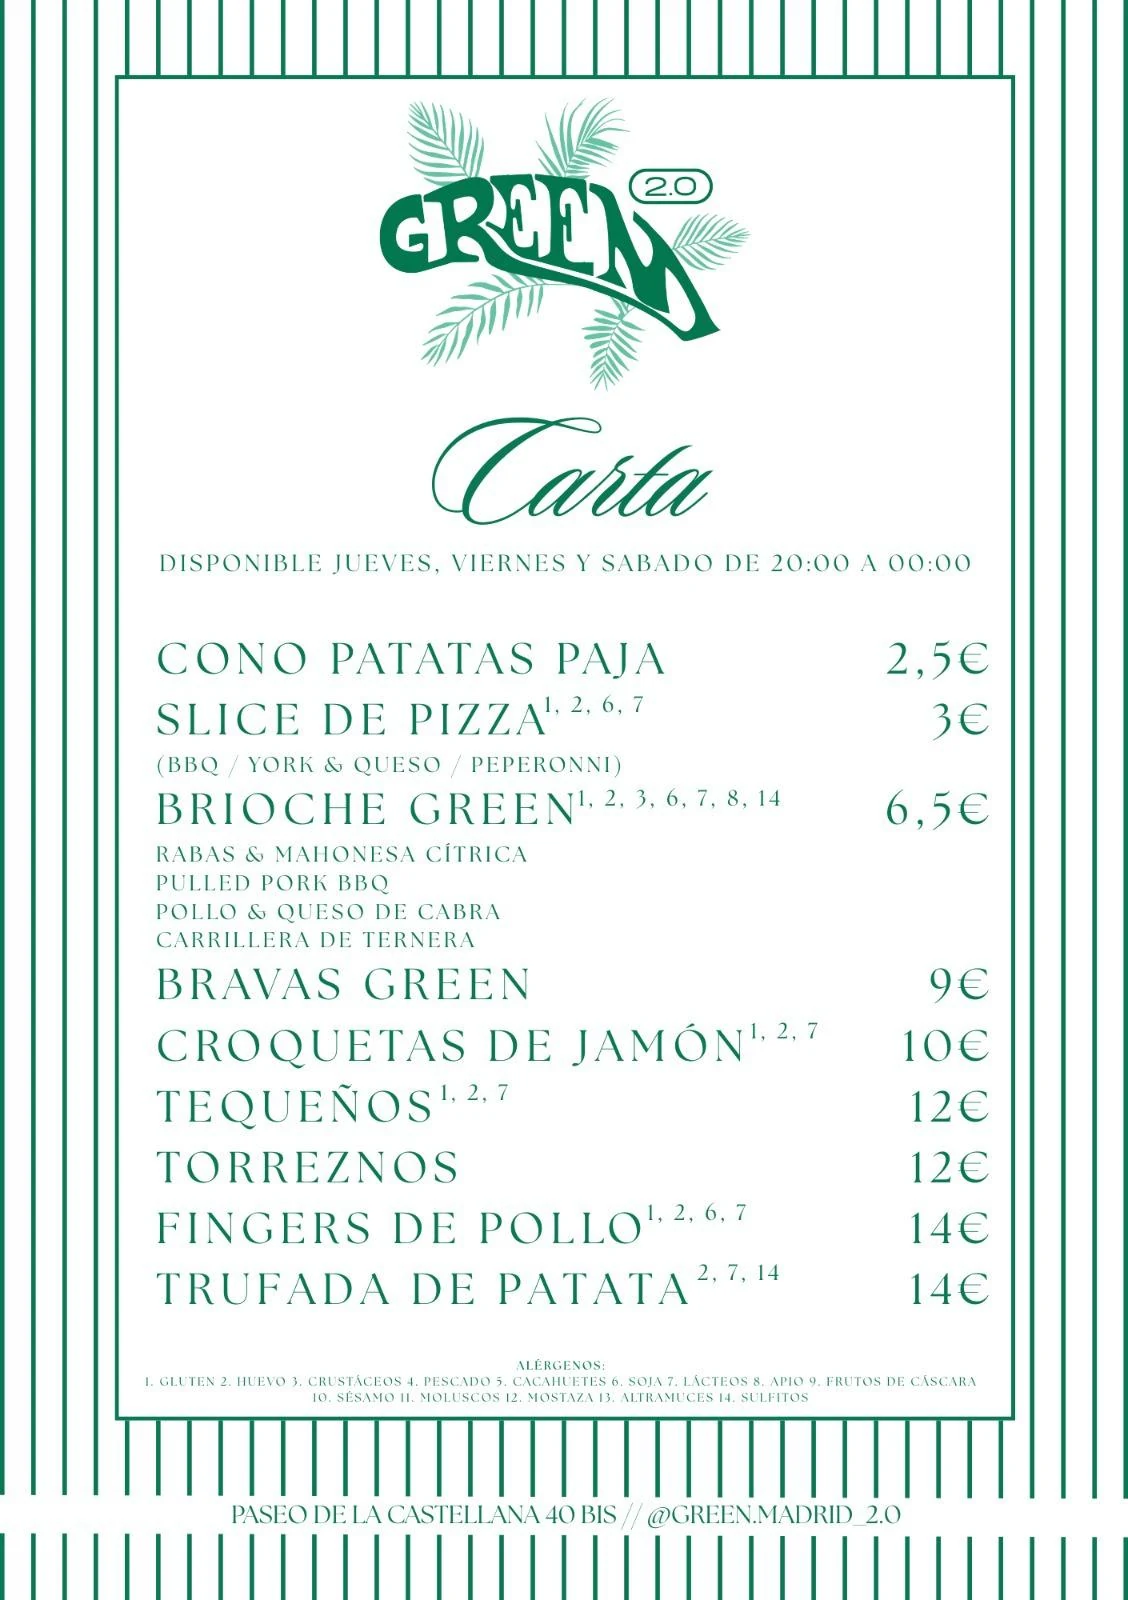
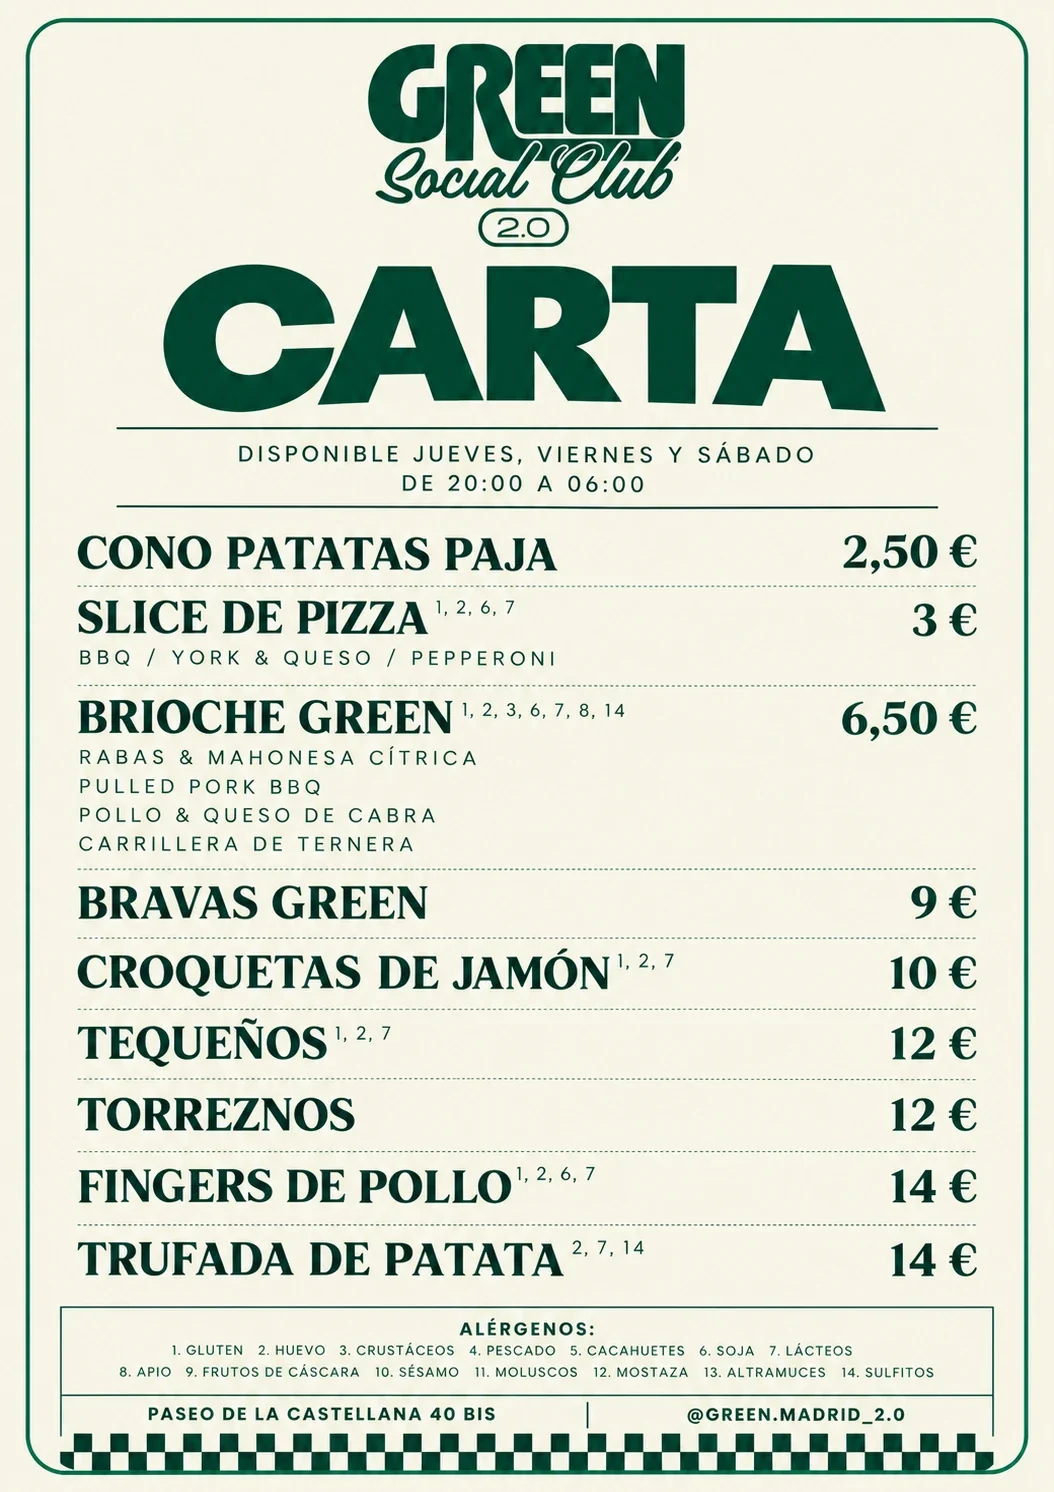
Green: carta definitiva (Green Social Club 2.0, de 20:00 a 06:00) en imagen y en texto

diff --git a/locales/green/index.html b/locales/green/index.html
@@ -539,7 +539,7 @@ footer{background:var(--ft-bg);border-top:1px solid var(--bdr);padding:44px clam
 
 <section class="sec" id="carta" aria-labelledby="h-carta">
   <div class="ci rev"><div><div class="ci-eyebrow">La carta</div><h2 id="h-carta">Qué se come en Green 2.0</h2></div></div>
-  <p class="mn-intro rev">Carta de noche para picar entre copa y copa, disponible jueves, viernes y sábado de 20:00 a 00:00: brioches, bravas, croquetas, tequeños, torreznos y más.</p>
+  <p class="mn-intro rev">La carta de Green Social Club 2.0 para picar entre copa y copa, disponible jueves, viernes y sábado de 20:00 a 06:00: brioches, bravas, croquetas, tequeños, torreznos y más.</p>
   <div class="mn-grid">
 <div class="mn-sec rev"><h3>Para picar</h3><ul><li><div class="mn-row"><span class="mn-n">Cono de patatas paja</span><span class="mn-dots" aria-hidden="true"></span><span class="mn-p">2,50 €</span></div></li><li><div class="mn-row"><span class="mn-n">Slice de pizza</span><span class="mn-dots" aria-hidden="true"></span><span class="mn-p">3,00 €</span></div><span class="mn-d">BBQ, york y queso o pepperoni</span><span class="mn-al">Gluten, Huevo, Soja, Lácteos</span></li><li><div class="mn-row"><span class="mn-n">Brioche Green</span><span class="mn-dots" aria-hidden="true"></span><span class="mn-p">6,50 €</span></div><span class="mn-d">Rabas con mahonesa cítrica, pulled pork BBQ, pollo con queso de cabra o carrillera de ternera</span><span class="mn-al">Gluten, Huevo, Crustáceos, Soja, Lácteos, Apio, Sulfitos</span></li><li><div class="mn-row"><span class="mn-n">Bravas Green</span><span class="mn-dots" aria-hidden="true"></span><span class="mn-p">9,00 €</span></div></li><li><div class="mn-row"><span class="mn-n">Croquetas de jamón</span><span class="mn-dots" aria-hidden="true"></span><span class="mn-p">10,00 €</span></div><span class="mn-al">Gluten, Huevo, Lácteos</span></li><li><div class="mn-row"><span class="mn-n">Tequeños</span><span class="mn-dots" aria-hidden="true"></span><span class="mn-p">12,00 €</span></div><span class="mn-al">Gluten, Huevo, Lácteos</span></li><li><div class="mn-row"><span class="mn-n">Torreznos</span><span class="mn-dots" aria-hidden="true"></span><span class="mn-p">12,00 €</span></div></li><li><div class="mn-row"><span class="mn-n">Fingers de pollo</span><span class="mn-dots" aria-hidden="true"></span><span class="mn-p">14,00 €</span></div><span class="mn-al">Gluten, Huevo, Soja, Lácteos</span></li><li><div class="mn-row"><span class="mn-n">Trufada de patata</span><span class="mn-dots" aria-hidden="true"></span><span class="mn-p">14,00 €</span></div><span class="mn-al">Huevo, Lácteos, Sulfitos</span></li></ul></div>
   </div>

diff --git a/locales/_generar.py b/locales/_generar.py
@@ -130,7 +130,7 @@ LOCALES = [
 POR_SLUG = {l['slug']: l for l in LOCALES}
 
 # Cartas en texto (SEO: Google y los buscadores con IA leen los platos y precios).
-# Transcritas de cartas/traviesa.pdf y cartas/green.webp (04/11/2026). Al cambiar la carta impresa,
+# Transcritas de cartas/traviesa.pdf y cartas/green.webp (04/11/2026; Green: versión definitiva «Green Social Club 2.0»). Al cambiar la carta impresa,
 # actualizar también esto y volver a generar. Platos: (nombre, descripción, precio, [nº alérgenos]).
 ALERGENOS_TRAVIESA = ['Gluten', 'Crustáceos', 'Huevo', 'Pescado', 'Cacahuetes', 'Soja', 'Lácteos', 'Frutos de cáscara',
                       'Apio', 'Mostaza', 'Sésamo', 'Sulfitos', 'Altramuces', 'Moluscos']
@@ -211,7 +211,7 @@ CARTAS = {
     ]),
   'green': dict(
     alergenos=ALERGENOS_GREEN,
-    intro='Carta de noche para picar entre copa y copa, disponible jueves, viernes y sábado de 20:00 a 00:00: brioches, bravas, croquetas, tequeños, torreznos y más.',
+    intro='La carta de Green Social Club 2.0 para picar entre copa y copa, disponible jueves, viernes y sábado de 20:00 a 06:00: brioches, bravas, croquetas, tequeños, torreznos y más.',
     secciones=[
       ('Para picar', [
         ('Cono de patatas paja', '', '2,50', []),
